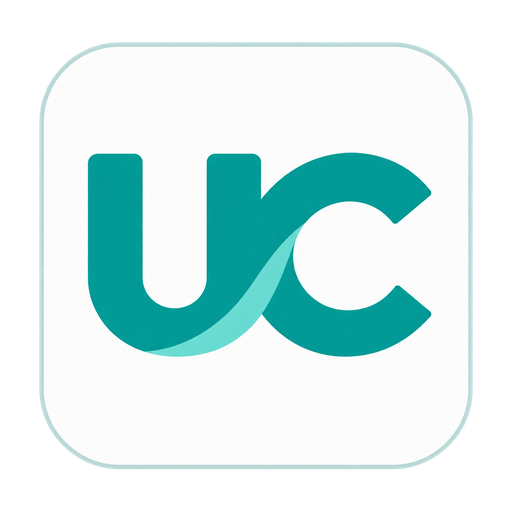
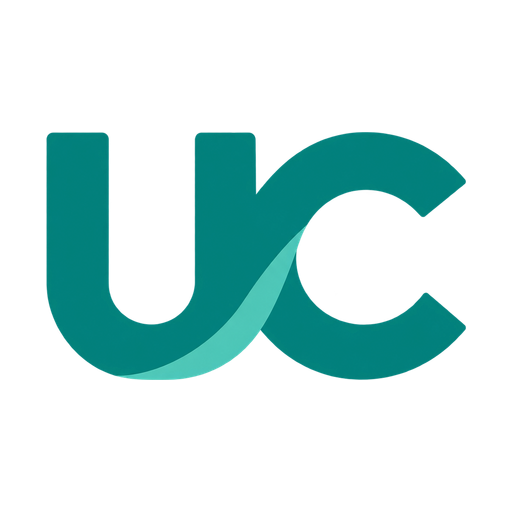
Introduce transparent UCAC brand system

diff --git a/public/index.html b/public/index.html
@@ -184,7 +184,7 @@
 
       .mark {
         display: block;
-        width: 38px;
+        width: 114px;
         height: 38px;
         flex: 0 0 auto;
         object-fit: contain;
@@ -1212,7 +1212,7 @@
           <div><span>Fall 2026 entry</span><span>English</span></div>
         </div>
         <header class="topbar">
-          <div class="brand"><img class="mark" src="/ucac-icon.png?v=20261002-contrast-logo" width="38" height="38" alt="" aria-hidden="true" /><span>UCAC</span></div>
+          <div class="brand"><img class="mark" src="/ucac-wordmark.png?v=20261002-transparent-wordmark" width="114" height="38" alt="UCAC" /></div>
           <nav class="main-nav" aria-label="Primary navigation">
             <a class="active" href="#">Search</a>
             <a href="#">Universities</a>
@@ -1344,7 +1344,7 @@
     <section class="screen" id="program-search-v2">
       <div class="frame desktop course-shell">
         <header class="topbar">
-          <div class="brand"><img class="mark" src="/ucac-icon.png?v=20261002-contrast-logo" width="38" height="38" alt="" aria-hidden="true" /><span>UCAC</span></div>
+          <div class="brand"><img class="mark" src="/ucac-wordmark.png?v=20261002-transparent-wordmark" width="114" height="38" alt="UCAC" /></div>
           <nav class="main-nav" aria-label="Primary navigation">
             <a class="active" href="#">Search</a>
             <a href="#">Universities</a>
@@ -1568,7 +1568,7 @@
       <div class="frame mobile">
         <div class="mobile-art">
           <header class="mobile-top">
-            <div class="brand"><img class="mark" src="/ucac-icon.png?v=20261002-contrast-logo" width="38" height="38" alt="" aria-hidden="true" /><span>UCAC</span></div>
+            <div class="brand"><img class="mark" src="/ucac-wordmark.png?v=20261002-transparent-wordmark" width="114" height="38" alt="UCAC" /></div>
             <button class="secondary">Menu</button>
           </header>
           <section class="mobile-head">
@@ -1628,7 +1628,7 @@
     <section class="screen" id="states-v2">
       <div class="frame desktop course-shell">
         <header class="topbar">
-          <div class="brand"><img class="mark" src="/ucac-icon.png?v=20261002-contrast-logo" width="38" height="38" alt="" aria-hidden="true" /><span>UCAC</span></div>
+          <div class="brand"><img class="mark" src="/ucac-wordmark.png?v=20261002-transparent-wordmark" width="114" height="38" alt="UCAC" /></div>
           <nav class="main-nav" aria-label="Primary navigation">
             <a class="active" href="#">Search</a>
             <a href="#">Universities</a>
@@ -1704,7 +1704,7 @@
             <div class="drawer-demo" aria-label="Mobile filter drawer example">
               <div class="mobile-art">
                 <header class="mobile-top">
-                  <div class="brand"><img class="mark" src="/ucac-icon.png?v=20261002-contrast-logo" width="38" height="38" alt="" aria-hidden="true" /><span>UCAC</span></div>
+                  <div class="brand"><img class="mark" src="/ucac-wordmark.png?v=20261002-transparent-wordmark" width="114" height="38" alt="UCAC" /></div>
                   <button class="secondary">Menu</button>
                 </header>
                 <section class="mobile-head">

diff --git a/public/home-v5.html b/public/home-v5.html
@@ -103,7 +103,7 @@
 
       .mark {
         display: block;
-        width: 40px;
+        width: 120px;
         height: 40px;
         flex: 0 0 auto;
         object-fit: contain;
@@ -1185,7 +1185,7 @@
         }
 
         .mark {
-          width: 42px;
+          width: 126px;
           height: 42px;
           font-size: 15px;
         }
@@ -1388,8 +1388,7 @@
       <nav class="nav" aria-label="Primary navigation">
         <div class="nav-inner">
           <a class="brand" href="#">
-            <img class="mark" src="/ucac-icon.png?v=20261002-contrast-logo" width="40" height="40" alt="" aria-hidden="true" />
-            <span>UCAC</span>
+            <img class="mark" src="/ucac-wordmark.png?v=20261002-transparent-wordmark" width="120" height="40" alt="UCAC" />
           </a>
           <div class="nav-links">
             <a href="#" aria-current="page">Programs</a>

diff --git a/app/auth/action-client.tsx b/app/auth/action-client.tsx
@@ -169,8 +169,7 @@ export function AuthActionClient({ kind }: { kind: ActionKind }) {
     <div className={styles.shell} dir={localeMeta[locale].dir} lang={locale}>
       <header className={styles.header}>
         <a className={styles.brand} href={localeHref(locale, "/home-v3.html")} aria-label={translate(locale, "UCAC home")}>
-          <img className={styles.mark} src="/ucac-icon.png?v=20261002-contrast-logo" width="38" height="38" alt="" aria-hidden="true" />
-          <span>UCAC</span>
+          <img className={styles.mark} src="/ucac-wordmark.png?v=20261002-transparent-wordmark" width="120" height="38" alt="" aria-hidden="true" />
         </a>
         <a className={styles.signInLink} href={localeHref(locale, "/auth.html")}>{translate(locale, "Sign in")}</a>
       </header>

diff --git a/app/cuac-app.tsx b/app/cuac-app.tsx
@@ -530,9 +530,8 @@ export function CuacApp({
   return (
     <div className="cuac-shell">
       <header className="top-nav">
-        <button className="brand" onClick={() => navigate("/")}>
-          <img className="brand-mark" src="/ucac-icon.png?v=20261002-contrast-logo" width="38" height="38" alt="" aria-hidden="true" />
-          <span>UCAC</span>
+        <button className="brand" aria-label="UCAC home" onClick={() => navigate("/")}>
+          <img className="brand-mark" src="/ucac-wordmark.png?v=20261002-transparent-wordmark" width="120" height="38" alt="" aria-hidden="true" />
         </button>
         <nav aria-label="Primary navigation">
           <button onClick={() => navigate("/programs")}>Find Programs</button>

diff --git a/app/auth/school-invite/school-invite-client.tsx b/app/auth/school-invite/school-invite-client.tsx
@@ -96,7 +96,7 @@ export function SchoolInviteClient() {
   return (
     <div className={styles.shell}>
       <header className={styles.header}>
-        <a className={styles.brand} href="/home-v3.html" aria-label="UCAC home"><img className={styles.mark} src="/ucac-icon.png?v=20261002-contrast-logo" width="38" height="38" alt="" aria-hidden="true" /><span>UCAC</span></a>
+        <a className={styles.brand} href="/home-v3.html" aria-label="UCAC home"><img className={styles.mark} src="/ucac-wordmark.png?v=20261002-transparent-wordmark" width="120" height="38" alt="" aria-hidden="true" /></a>
         <a className={styles.signInLink} href="/auth.html?role=school">Sign in</a>
       </header>
       <main className={styles.main}>

diff --git a/public/shared-shell.js b/public/shared-shell.js
@@ -672,7 +672,7 @@
   function brand() {
     const locale = window.CUACI18n?.locale;
     const href = shouldCarryLocale(locale) ? `home-v3.html?lang=${encodeURIComponent(locale)}` : "home-v3.html";
-    return `<a class="brand" href="${href}"><img class="logo" src="/ucac-icon.png?v=20261002-contrast-logo" width="40" height="40" alt="" aria-hidden="true" /><span>UCAC</span></a>`;
+    return `<a class="brand" href="${href}" aria-label="UCAC home"><img class="logo" src="/ucac-wordmark.png?v=20261002-transparent-wordmark" width="128" height="40" alt="" aria-hidden="true" /></a>`;
   }
 
   function shellText(key, fallback) {

diff --git a/app/layout.tsx b/app/layout.tsx
@@ -6,9 +6,9 @@ export const metadata: Metadata = {
   description:
     "A frontend-first admissions workspace for finding China programs, preparing documents, and requesting adviser review.",
   icons: {
-    icon: "/ucac-icon.png?v=20261002-contrast-logo",
-    shortcut: "/ucac-icon.png?v=20261002-contrast-logo",
-    apple: "/ucac-icon.png?v=20261002-contrast-logo",
+    icon: "/ucac-icon.png?v=20261002-transparent-wordmark",
+    shortcut: "/ucac-icon.png?v=20261002-transparent-wordmark",
+    apple: "/ucac-icon.png?v=20261002-transparent-wordmark",
   },
 };
 

diff --git a/public/preferences-api.html b/public/preferences-api.html
@@ -91,7 +91,7 @@
     <script src="onboarding-i18n.js?v=20261002-ucac-brand"></script>
     <script src="notifications-i18n.js?v=20261002-ucac-brand"></script>
     <script src="preferences-i18n.js?v=20261002-ucac-brand"></script>
-    <script src="shared-shell.js?v=20261002-contrast-logo"></script>
+    <script src="shared-shell.js?v=20261002-transparent-wordmark"></script>
     <script src="preferences-runtime.js?v=20261002-ucac-brand"></script>
   </body>
 </html>

diff --git a/public/cities.html b/public/cities.html
@@ -130,7 +130,7 @@
     <script src="i18n-runtime.js"></script>
     <script src="catalog-list-i18n.js?v=20261002-ucac-brand"></script>
     <script src="cities-i18n.js"></script>
-    <script src="shared-shell.js?v=20261002-contrast-logo"></script>
+    <script src="shared-shell.js?v=20261002-transparent-wordmark"></script>
     <script src="catalog-list-api.js?v=20261002-ucac-brand"></script>
     <script src="cities.js?v=20261002-ucac-brand"></script>
   </body>

diff --git a/public/application.html b/public/application.html
@@ -544,7 +544,7 @@
     <script src="i18n-runtime.js?v=20261002-ucac-brand"></script>
     <script src="onboarding-i18n.js?v=20261002-ucac-brand"></script>
     <script src="application-i18n.js?v=20261002-ucac-brand"></script>
-    <script src="shared-shell.js?v=20261002-contrast-logo"></script>
+    <script src="shared-shell.js?v=20261002-transparent-wordmark"></script>
     <script src="application.js?v=20261002-ucac-brand"></script>
   </body>
 </html>

diff --git a/public/scholarships.html b/public/scholarships.html
@@ -183,7 +183,7 @@
 
     <script src="i18n-runtime.js?v=20261002-ucac-brand"></script>
     <script src="catalog-list-i18n.js?v=20261002-ucac-brand"></script>
-    <script src="shared-shell.js?v=20261002-contrast-logo"></script>
+    <script src="shared-shell.js?v=20261002-transparent-wordmark"></script>
   <script src="catalog-list-api.js?v=20261002-ucac-brand"></script>
   <script src="scholarships.js?v=20261002-ucac-brand"></script>
   </body>

diff --git a/public/universities.html b/public/universities.html
@@ -84,7 +84,7 @@
 
     <script src="i18n-runtime.js?v=20261002-ucac-brand"></script>
     <script src="catalog-list-i18n.js?v=20261002-ucac-brand"></script>
-    <script src="shared-shell.js?v=20261002-contrast-logo"></script>
+    <script src="shared-shell.js?v=20261002-transparent-wordmark"></script>
     <script src="catalog-list-api.js?v=20261002-ucac-brand"></script>
     <script src="universities.js?v=20261002-ucac-brand"></script>
 </body>
